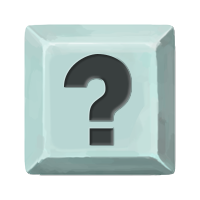
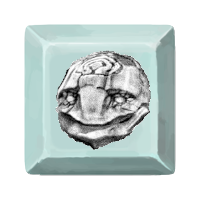
Added placeholder character select button

Changed region(s): [[0.27, 0.24, 0.78, 0.75]]

diff --git a/theDefault/src/main/java/theStoneGiant/characters/TheDefault.java b/theDefault/src/main/java/theStoneGiant/characters/TheDefault.java
@@ -175,7 +175,7 @@ public class TheDefault extends CustomPlayer {
 //        retVal.add(JustTPOut.ID);
 //        retVal.add(EchoSabre.ID);
 //        retVal.add(TreeVolley.ID);
-        retVal.add(CraggyExterior.ID);
+//        retVal.add(CraggyExterior.ID);
 
         return retVal;
     }

diff --git a/theDefault/src/main/java/theStoneGiant/cards/GrowCard.java b/theDefault/src/main/java/theStoneGiant/cards/GrowCard.java
@@ -42,7 +42,7 @@ public class GrowCard extends AbstractDynamicCard {
 
     private int AMOUNT = 1;
 
-    private int GROW_POTENCY = 3;
+    private int GROW_POTENCY = 2;
 
 
     // /STAT DECLARATION/
